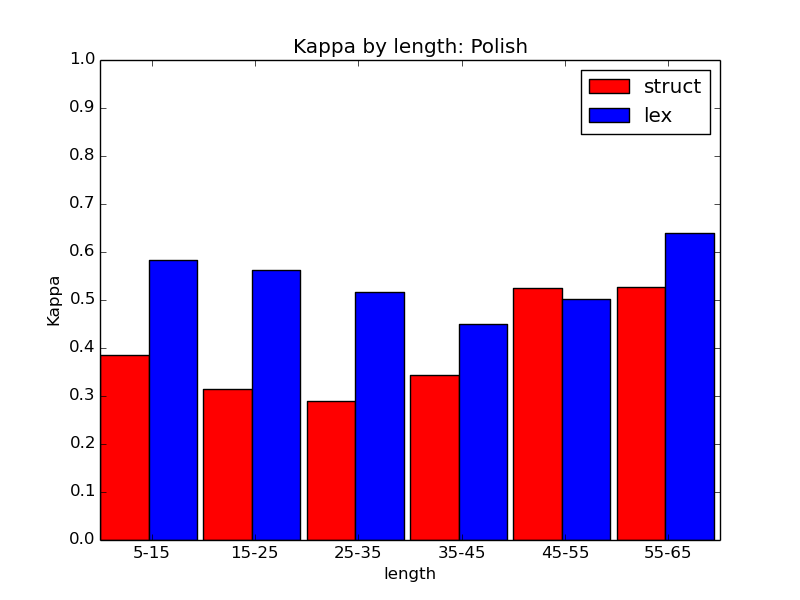
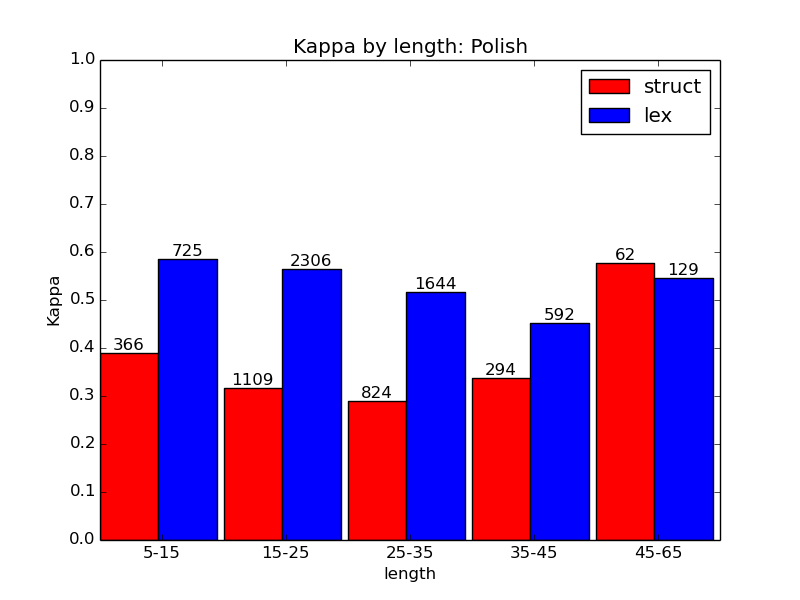
add counts to kappa by length

Changed region(s): [[0.125, 0.36, 0.9062, 0.93]]

diff --git a/scripts/iaa_binned.py b/scripts/iaa_binned.py
@@ -18,7 +18,8 @@ from iaa import get_kappa, LANGCODES
 
 LOG = logging.getLogger(__name__)
 
-def do_bins(agree, first_bin_start, bin_size, field_name, csv_file, graph_file, name):
+
+def do_bins(agree, bins, field_name, csv_file, graph_file, name):
   LOG.info("Calculating kappas, binning by " +name)
   #groups = (("ab", ("A", "B")), ("rog", ("R", "O", "G")), ("all", ("A", "B","R", "O", "G")))
   groups = (("struct", ("A", "B")), ("lex", ("R", "O", "G")))
@@ -31,13 +32,8 @@ def do_bins(agree, first_bin_start, bin_size, field_name, csv_file, graph_file, 
       max_length = max(by_lang[field_name])
       #min_length = min(agree[agree['lang'] == lang][field_name])
       kappas = { g: [] for g,_ in groups}
-      bins = []
-      bin_start = first_bin_start
-      while bin_start < max_length:
-        bin_end = bin_start + bin_size
-        if len(by_lang[by_lang[field_name] >= bin_start]) == 0: break
-        while len(by_lang[(by_lang[field_name] >= bin_start) & (by_lang[field_name] < bin_end)]) == 0:
-          bin_end += bin_size
+      counts = { g: [] for g,_ in groups}
+      for bin_start, bin_end in bins:
         LOG.debug("Bin start: {}; Bin end: {}".format(bin_start,bin_end))
         for group_name, group in groups:
           selected = by_lang[ \
@@ -61,8 +57,7 @@ def do_bins(agree, first_bin_start, bin_size, field_name, csv_file, graph_file, 
           LOG.debug("Kappa: {}".format(kappa))
           writer.writerow((lang, group_name, str(bin_start), str(bin_end), len(selected), kappa))
           kappas[group_name].append(kappa)
-        bins.append((bin_start,bin_end))
-        bin_start = bin_end
+          counts[group_name].append(len(selected))
 
       # Plotting to file
       fig,ax = plt.subplots()
@@ -74,26 +69,32 @@ def do_bins(agree, first_bin_start, bin_size, field_name, csv_file, graph_file, 
       for (group,_),col in zip(groups,cols):
         rects.append(ax.bar(index + offset, kappas[group], width=width, color = col))
         offset += width
+        for rect, count in zip(rects[-1], counts[group]):
+          ax.text(rect.get_x() + rect.get_width()/2, rect.get_height(), str(count), 
+              ha='center', va='bottom')
       ax.set_yticks(np.arange(0,1.1,0.1))
       ax.set_xticks(index + 0.5)
+      ax.set_xlim(0,len(bins))
       ax.set_xticklabels(["{}-{}".format(n,m) for n,m in bins])
       lgd = ax.legend([r[0] for r in rects],[g for g,_ in groups], loc='upper right')#, bbox_to_anchor=(1.0,1.1))
       ax.set_title("Kappa by {}: {}".format(name, lang_name))
       ax.set_ylabel("Kappa")
       ax.set_xlabel(name)
-      graph_file_name = "{}.{}.png".format(graph_file, lang)
+      graph_file_name = "{}_{}.png".format(graph_file, lang)
       plt.savefig(graph_file_name)#, bbox_extra_artists=(lgd,), bbox_inches='tight')
       plt.clf()
    
 
 def do_bleu_bins(sentences, agree, args):
-  agree = agree.merge(sentences[['sent_id', 'bleu']], on="sent_id")
-  do_bins(agree, args.bleu_bins_start,  args.bleu_bins_size, "bleu", args.bleu_bins_file, args.bleu_bins_plot, "Sentence Bleu") 
+  bins = ((0,0.2), (0.2, 0.4), (0.4, 0.6), (0.6, 0.8), (0.8, 1.0))
+  agree = agree.merge(sentences[['sent_id', 'bleu']].drop_duplicates(), on="sent_id")
+  do_bins(agree, bins, "bleu", args.bleu_bins_file, args.bleu_bins_plot, "Sentence Bleu") 
 
 def do_length_bins(sentences, agree, args):
+  bins = ((5,15), (15, 25), (25, 35), (35, 45), (45, 65))
   sentences['src_length'] = sentences['source'].str.split().apply(len)
-  agree = agree.merge(sentences[['sent_id', 'src_length']], on="sent_id")
-  do_bins(agree, args.length_bins_start,  args.length_bins_size, "src_length", args.length_bins_file, args.length_bins_plot, "length") 
+  agree = agree.merge(sentences[['sent_id', 'src_length']].drop_duplicates(),  on="sent_id")
+  do_bins(agree, bins, "src_length", args.length_bins_file, args.length_bins_plot, "length") 
    
 def main():
   logging.basicConfig(format='%(asctime)s %(levelname)s: %(name)s: %(message)s', datefmt='%Y-%m-%d %H:%M:%S', level=logging.DEBUG)
@@ -103,10 +104,6 @@ def main():
 
   parser.add_argument("-l", "--length-bins-file", help="Output file for length bins", default="iaa_length.csv")
   parser.add_argument("-b", "--bleu-bins-file", help="Output file for bleu bins", default="iaa_bleu.csv")
-  parser.add_argument("--bleu-bins-size", type=float, default=0.2)
-  parser.add_argument("--bleu-bins-start", type=float, default=0)
-  parser.add_argument("--length-bins-size", type=int, default=10)
-  parser.add_argument("--length-bins-start", type=int, default=5)
   parser.add_argument("--length-bins-plot", help = "Plot to file stem", default = "iaa_length")
   parser.add_argument("--bleu-bins-plot", help="Plot to file stem", default = "iaa_bleu")
   args = parser.parse_args()
